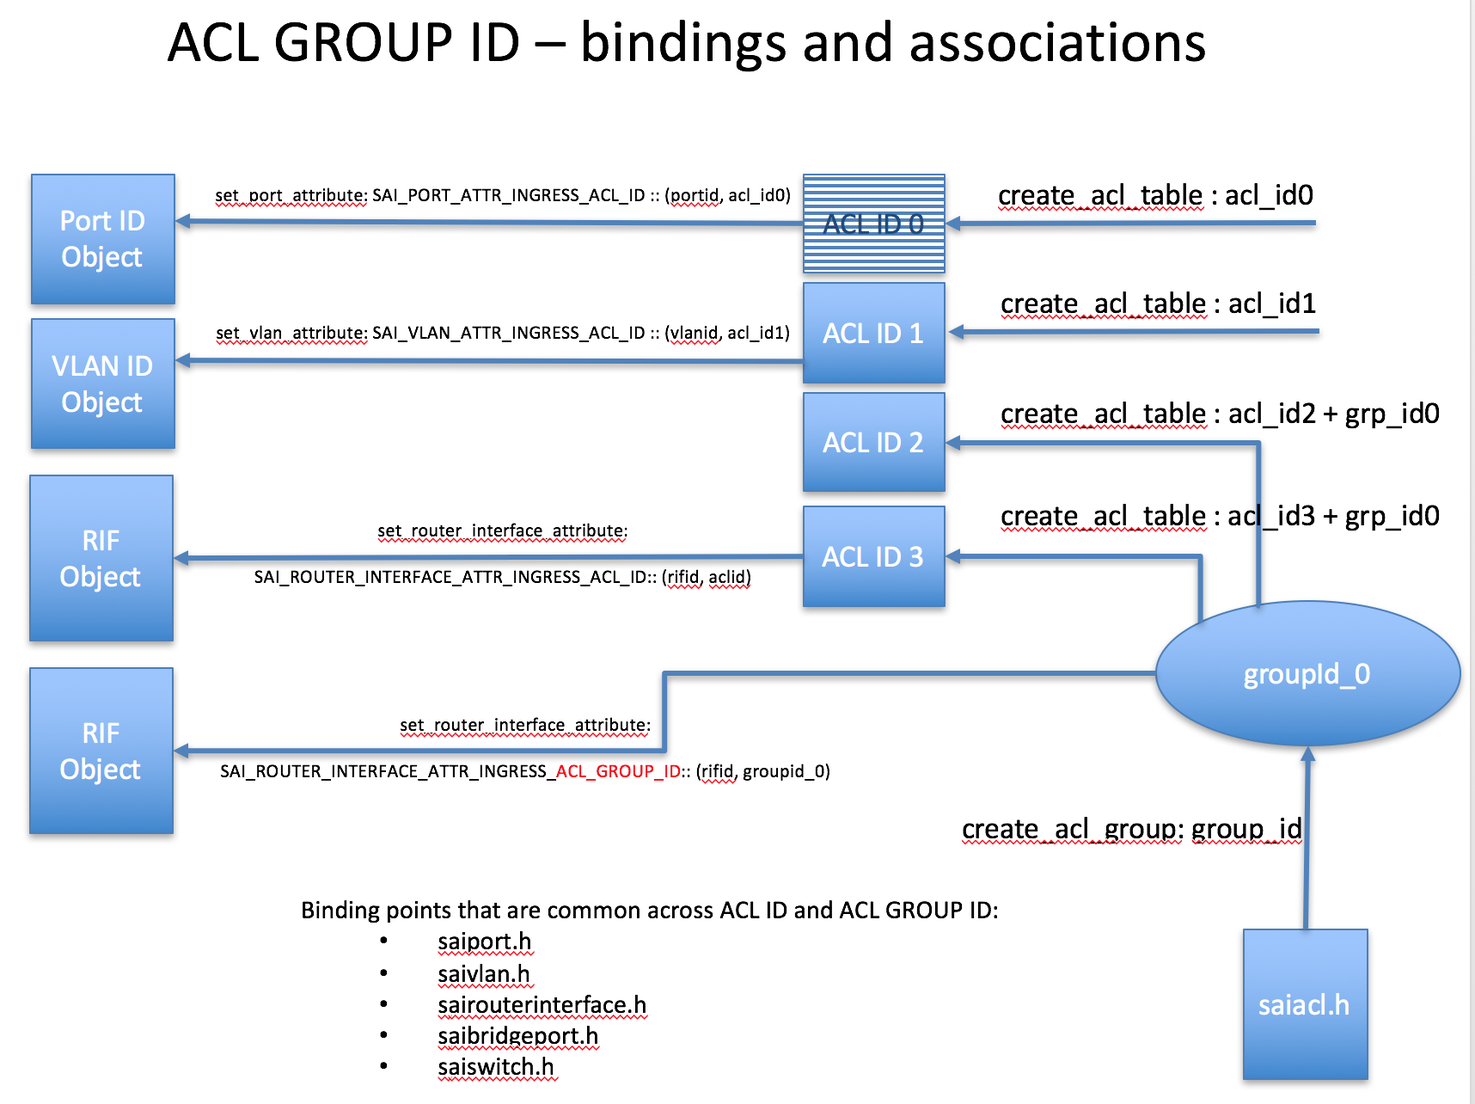
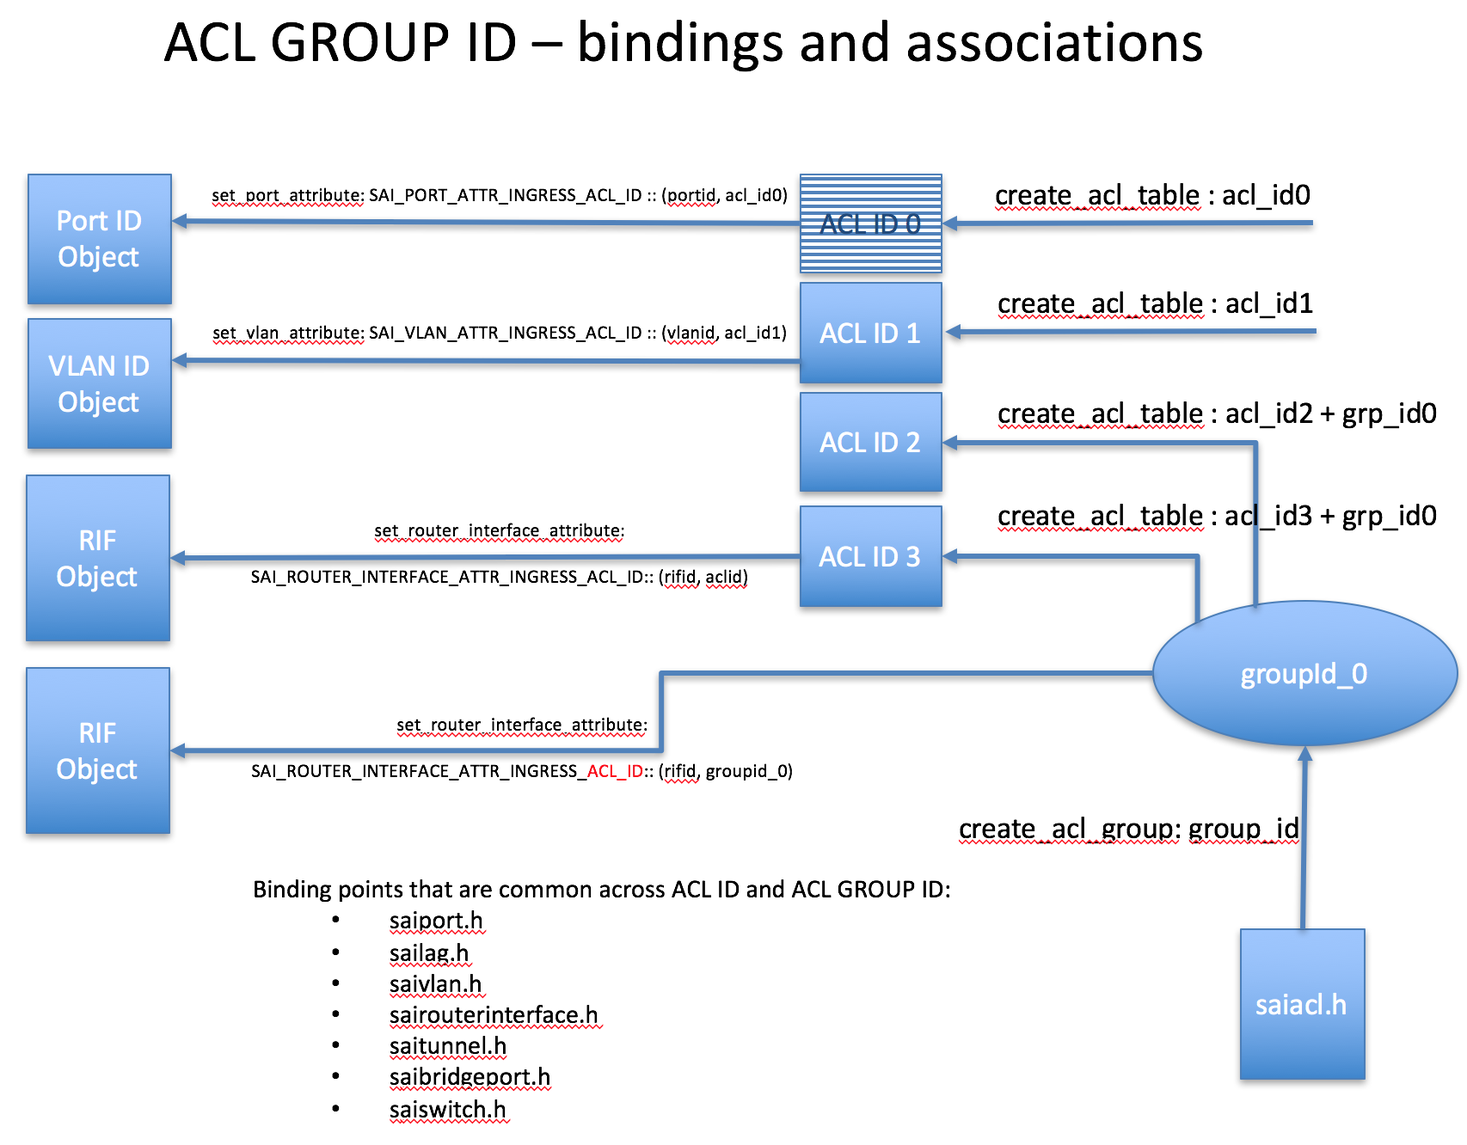
update acl model, with more details

diff --git a/inc/saitunnel.h b/inc/saitunnel.h
@@ -266,9 +266,9 @@ typedef enum _sai_tunnel_attr_t
       * (valid when SAI_TUNNEL_ATTR_ENCAP_ECN_MODE=SAI_TUNNEL_ENCAP_ECN_MODE_USER_DEFINED) */
     SAI_TUNNEL_ATTR_ENCAP_MAPPERS,
 
-    /** Bind/Unbind an egress acl on a tunnel after encap [sai_object_id_t].
+    /** Bind/Unbind an egress acl or acl-group on a tunnel after encap [sai_object_id_t].
      *      Enable (or bind) egress ACL filtering by assigning the ACL table 
-     *      object id as attribute value. 
+     *      object id or ACL group object id as attribute value. 
      *      Disable (or unbind) egress ACL filtering by assigning 
      *      SAI_NULL_OBJECT_ID in the attribute value.
      *      Default Value: SAI_NULL_OBJECT_ID
@@ -297,23 +297,14 @@ typedef enum _sai_tunnel_attr_t
      *  Default would be SAI_TUNNEL_DSCP_UNIFORM_MODEL */
     SAI_TUNNEL_ATTR_DECAP_DSCP_MODE,
 
-    /** Bind/Unbind an ingress acl on a tunnel after decap. [sai_object_id_t].
+    /** Bind/Unbind an ingress acl or acl-group on a tunnel after decap. [sai_object_id_t].
      *      Enable (or bind) ingress ACL filtering by assigning the ACL table 
-     *      object id as attribute value. 
+     *      object id or ACL group object id as attribute value. 
      *      Disable (or unbind) ingress ACL filtering by assigning 
      *      SAI_NULL_OBJECT_ID in the attribute value.
      *      Default Value: SAI_NULL_OBJECT_ID
      */
     SAI_TUNNEL_ATTR_DECAP_INGRESS_ACL_ID,
-
-    /** Bind/Unbind an ingress acl group on a tunnel after decap [sai_object_id_t].
-     *      Enable (or bind) ingress ACL group filtering by assigning 
-     *      the group id as attribute value.
-     *      Disable (or unbind) ingress ACL group filtering by assigning 
-     *      SAI_NULL_OBJECT_ID in the attribute value.
-     *      Default Value: SAI_NULL_OBJECT_ID
-     */
-    SAI_TUNNEL_ATTR_DECAP_INGRESS_ACL_GROUP_ID,
 
     SAI_TUNNEL_ATTR_END,
 

diff --git a/inc/sairouterintf.h b/inc/sairouterintf.h
@@ -93,27 +93,18 @@ typedef enum _sai_router_interface_attr_t
     /** MTU [uint32_t] (CREATE_AND_SET) (default to 1514 bytes) */
     SAI_ROUTER_INTERFACE_ATTR_MTU,
 
-    /** Bind/Unbind an ingress acl on a router interface [sai_object_id_t].
+    /** Bind/Unbind an ingress acl or acl-group on a router interface [sai_object_id_t].
      *      Enable (or bind) ingress ACL filtering by assigning the ACL table 
-     *      object id as attribute value. 
+     *      object id or an ACL group object id as attribute value. 
      *      Disable (or unbind) ingress ACL filtering by assigning 
      *      SAI_NULL_OBJECT_ID in the attribute value.
      *      Default Value: SAI_NULL_OBJECT_ID
      */
     SAI_ROUTER_INTERFACE_ATTR_INGRESS_ACL_ID,
 
-    /** Bind/Unbind an ingress acl group on a router interface [sai_object_id_t].
-     *      Enable (or bind) ingress ACL group filtering by assigning 
-     *      the group id as attribute value.
-     *      Disable (or unbind) ingress ACL group filtering by assigning 
-     *      SAI_NULL_OBJECT_ID in the attribute value.
-     *      Default Value: SAI_NULL_OBJECT_ID
-     */
-    SAI_ROUTER_INTERFACE_ATTR_INGRESS_ACL_GROUP_ID,
-
-    /** Bind/Unbind an egress acl on a router interface [sai_object_id_t].
+    /** Bind/Unbind an egress acl or acl-group on a router interface [sai_object_id_t].
      *      Enable (or bind) egress ACL filtering by assigning the ACL table 
-     *      object id as attribute value. 
+     *      object id or an ACL group object id as attribute value. 
      *      Disable (or unbind) egress ACL filtering by assigning 
      *      SAI_NULL_OBJECT_ID in the attribute value.
      *      Default Value: SAI_NULL_OBJECT_ID

diff --git a/inc/saiport.h b/inc/saiport.h
@@ -412,27 +412,18 @@ typedef enum _sai_port_attr_t
      * [sai_packet_action_t] (default to SAI_PACKET_ACTION_DROP) */
     SAI_PORT_ATTR_FDB_LEARNING_LIMIT_VIOLATION,
 
-    /** Bind/Unbind an ingress acl on a port [sai_object_id_t].
+    /** Bind/Unbind an ingress acl or acl-group on a port [sai_object_id_t].
      *      Enable (or bind) ingress ACL filtering by assigning the ACL table 
-     *      object id as attribute value. 
-     *      Disable (or unbind) ingress ACL filtering by assigning 
+     *      object id or ACL group object id as attribute value. 
+     *      Disable (or unbind) ingress filtering by assigning 
      *      SAI_NULL_OBJECT_ID in the attribute value.
      *      Default Value: SAI_NULL_OBJECT_ID
      */
     SAI_PORT_ATTR_INGRESS_ACL_ID,
 
-    /** Bind/Unbind an ingress acl group on a port [sai_object_id_t].
-     *      Enable (or bind) ingress ACL group filtering by assigning 
-     *      the group id as attribute value.
-     *      Disable (or unbind) ingress ACL group filtering by assigning 
-     *      SAI_NULL_OBJECT_ID in the attribute value.
-     *      Default Value: SAI_NULL_OBJECT_ID
-     */
-    SAI_PORT_ATTR_INGRESS_ACL_GROUP_ID,
-
-    /** Bind/Unbind an egress acl on a port [sai_object_id_t].
+    /** Bind/Unbind an egress acl or acl-group on a port [sai_object_id_t].
      *      Enable (or bind) egress ACL filtering by assigning the ACL table 
-     *      object id as attribute value. 
+     *      object id or ACL group object id as attribute value. 
      *      Disable (or unbind) egress ACL filtering by assigning 
      *      SAI_NULL_OBJECT_ID in the attribute value.
      *      Default Value: SAI_NULL_OBJECT_ID

diff --git a/inc/saiswitch.h b/inc/saiswitch.h
@@ -289,27 +289,18 @@ typedef enum _sai_switch_attr_t
      * Must return SAI_STATUS_OBJECT_IN_USE when try to delete this VR ID. */
     SAI_SWITCH_ATTR_DEFAULT_VIRTUAL_ROUTER_ID,
 
-    /** Bind/Unbind a DEFAULT ingress acl on all flows [sai_object_id_t].
+    /** Bind/Unbind a DEFAULT ingress acl or acl-group on all flows [sai_object_id_t].
      *      Enable (or bind) ingress ACL filtering by assigning the ACL table 
-     *      object id as attribute value. 
+     *      object id or ACL group object id as attribute value. 
      *      Disable (or unbind) ingress ACL filtering by assigning 
      *      SAI_NULL_OBJECT_ID in the attribute value.
      * Default Value: SAI_NULL_OBJECT_ID
      */
     SAI_SWITCH_ATTR_DEFAULT_INGRESS_ACL_ID,
 
-    /** Bind/Unbind a DEFAULT ingress acl on all flows [sai_object_id_t].
-     *      Enable (or bind) ingress ACL group filtering by assigning 
-     *      the group id as attribute value.
-     *      Disable (or unbind) ingress ACL group filtering by assigning 
-     *      SAI_NULL_OBJECT_ID in the attribute value.
-     * Default Value: SAI_NULL_OBJECT_ID
-     */
-    SAI_SWITCH_ATTR_DEFAULT_INGRESS_ACL_GROUP_ID,
-
-    /** Bind/Unbind a DEFAULT egress acl on all flows [sai_object_id_t].
+    /** Bind/Unbind a DEFAULT egress acl or acl-group on all flows [sai_object_id_t].
      *      Enable (or bind) egress ACL filtering by assigning the ACL table 
-     *      object id as attribute value. 
+     *      object id or ACL group object id as attribute value. 
      *      Disable (or unbind) egress ACL filtering by assigning 
      *      SAI_NULL_OBJECT_ID in the attribute value.
      * Default Value: SAI_NULL_OBJECT_ID

diff --git a/inc/saivlan.h b/inc/saivlan.h
@@ -85,27 +85,18 @@ typedef enum _sai_vlan_attr_t
       */
     SAI_VLAN_ATTR_LEARN_DISABLE,
 
-    /** Bind/Unbind an ingress acl on a vlan [sai_object_id_t].
+    /** Bind/Unbind an ingress acl or acl-group on a vlan [sai_object_id_t].
      *      Enable (or bind) ingress ACL filtering by assigning the ACL table 
-     *      object id as attribute value. 
+     *      object id or ACL group object id as attribute value. 
      *      Disable (or unbind) ingress ACL filtering by assigning 
      *      SAI_NULL_OBJECT_ID in the attribute value.
      *      Default Value: SAI_NULL_OBJECT_ID
      */
     SAI_VLAN_ATTR_INGRESS_ACL_ID,
 
-    /** Bind/Unbind an ingress acl group on a vlan [sai_object_id_t].
-     *      Enable (or bind) ingress ACL group filtering by assigning 
-     *      the group id as attribute value.
-     *      Disable (or unbind) ingress ACL group filtering by assigning 
-     *      SAI_NULL_OBJECT_ID in the attribute value.
-     *      Default Value: SAI_NULL_OBJECT_ID
-     */
-    SAI_VLAN_ATTR_INGRESS_ACL_GROUP_ID,
-
-    /** Bind/Unbind an egress acl on a vlan [sai_object_id_t].
+    /** Bind/Unbind an egress acl or acl-group on a vlan [sai_object_id_t].
      *      Enable (or bind) egress ACL filtering by assigning the ACL table 
-     *      object id as attribute value. 
+     *      object id or ACL group object id as attribute value. 
      *      Disable (or unbind) egress ACL filtering by assigning 
      *      SAI_NULL_OBJECT_ID in the attribute value.
      *      Default Value: SAI_NULL_OBJECT_ID

diff --git a/inc/sailag.h b/inc/sailag.h
@@ -42,27 +42,18 @@ typedef enum _sai_lag_attr_t {
 
     /** READ_WRITE */
 
-    /** Bind/Unbind an ingress acl on a lag [sai_object_id_t].
+    /** Bind/Unbind an ingress acl or acl-group on a lag [sai_object_id_t].
      *      Enable (or bind) ingress ACL filtering by assigning the ACL table 
-     *      object id as attribute value. 
+     *      object id or ACL group object id as attribute value. 
      *      Disable (or unbind) ingress ACL filtering by assigning 
      *      SAI_NULL_OBJECT_ID in the attribute value.
      *      Default Value: SAI_NULL_OBJECT_ID
      */
     SAI_LAG_ATTR_INGRESS_ACL_ID,
 
-    /** Bind/Unbind an ingress acl group on a lag [sai_object_id_t].
-     *      Enable (or bind) ingress ACL group filtering by assigning 
-     *      the group id as attribute value.
-     *      Disable (or unbind) ingress ACL group filtering by assigning 
-     *      SAI_NULL_OBJECT_ID in the attribute value.
-     *      Default Value: SAI_NULL_OBJECT_ID
-     */
-    SAI_LAG_ATTR_INGRESS_ACL_GROUP_ID,
-
-    /** Bind/Unbind an egress acl on a lag [sai_object_id_t].
+    /** Bind/Unbind an egress acl or acl-group on a lag [sai_object_id_t].
      *      Enable (or bind) egress ACL filtering by assigning the ACL table 
-     *      object id as attribute value. 
+     *      object id or ACL group object id as attribute value. 
      *      Disable (or unbind) egress ACL filtering by assigning 
      *      SAI_NULL_OBJECT_ID in the attribute value.
      *      Default Value: SAI_NULL_OBJECT_ID

diff --git a/inc/saiacl.h b/inc/saiacl.h
@@ -1154,7 +1154,8 @@ typedef struct _sai_acl_api_t
     sai_remove_acl_range_fn             remove_acl_range;
     sai_set_acl_range_attribute_fn      set_acl_range_attribute;
     sai_get_acl_range_attribute_fn      get_acl_range_attribute;
-
+    sai_create_acl_group_fn             create_acl_group;
+    sai_remove_acl_group_fn             remove_acl_group;
 } sai_acl_api_t;
 
 /**

diff --git a/doc/SAI-Proposal-ACL-1.md b/doc/SAI-Proposal-ACL-1.md
@@ -1,9 +1,9 @@
 SAI access control lists (ACL) enhancements for SAI 1.0 release
-===============================================================================
+-------------------------------------------------------------------------------
 
  Title       | SAI ACL Model - Enhancements
 -------------|----------------------
- Authors     | Cavium 
+ Authors     | Cavium Inc.
  Status      | In review
  Type        | Standards track
  Created     | 08/09/2016
@@ -12,35 +12,42 @@ SAI access control lists (ACL) enhancements for SAI 1.0 release
 -------------------------------------------------------------------------------
 
 ## Overview ##
-SAI Access Control Lists (ACL) object implements ACL management functions. In SAI 0.9.1 through 0.9.3 versions, the ACL contains three types of objects, ACL table, ACL entry and ACL counter. The ACL table contains a number of ACL entries. Each ACL table defines a set of unique matching fields for all its ACL entries. A packet can match rules in different ACL tables and take non-conflicting actions from all the matched rules. However, within an ACL table, if a packet matches multiple rules, only the actions from the rule of highest priority are executed. ACL counters can also be created and attached to an ACL entry in order to counter the number of packets or bytes that match the ACL entry.
+SAI Access Control Lists (ACL) object implements ACL management functions. In SAI 0.9.1 through 0.9.5 versions, SAI ACL contained three types of objects, ACL table, ACL entry and ACL counter. The ACL table contains a number of ACL entries. Each ACL table defines a set of unique matching fields for all its ACL entries. A packet can match rules in different ACL tables and take non-conflicting actions from all the matched rules. However, within an ACL table, if a packet matches multiple rules, only the actions from the rule of highest priority are executed. ACL counters can also be created and attached to an ACL entry in order to counter the number of packets or bytes that match the ACL entry. The initial version of ACL table object has several ambiguities and limitations. We propose the following enhancements to address some of those and propose a generic and simple ACL model for operators:
 
-The initial version of ACL table object has several ambiguities and limitations, as well as needs the following enhancements. 
 1. Well defined binding point for an ACL table
 2. Well defined behavior and usage of ACL group ID and metadata fields
 3. ACL table stages that were relevant in absense of a binding point
 4. Scaling issues in absense of a well defined binding point
 5. Missing behavioral model for ACL stage(s)
 
-In this proposal, we propose a model for binding an ACL table, clarify the usage of group IDs and metadata with UOID based ACL ID, mapping of ACL stages relevant to binding points, and tunnel specific ACL behavior. We also introduce the behavioral model for ACLs.
+In this proposal, we provide a model for binding an ACL table, clarify the usage of group IDs and metadata with UOID based ACL Table ID, mapping of ACL stages relevant to binding points, and tunnel specific ACL behavior. We also introduce the behavioral model for ACLs.
 
-![SAI acl design](figures/sai_aclobjs.png "Figure 1: ACL ID's relationship and binding points with other SAI objects.")
-__Figure 1: ACL ID's relationship and binding points with other SAI objects__
+### Binding Points
+In SAI all physical and logical interfaces are represented by a UOID (for eg. ports  - saiport.h, LAGs - sailag.h, RIFs - sairouterintf.h, tunnels, bridge ports, etc). These are well defined objects in SAI that allows a packet or a flow to ingress or egress through a switch. The ability to filter, classify, or apply specific rules to the traffic that ingresses or egresses through these objects/interfaces allows applications and operators to focus on the functionality of what they want to achieve, and avoid looking at the internals of the switch asic. 
 
-### ACL ID Binding Model 
-We propose the usage of UOID based ACL Table ID allocated by the create_acl_table function should be uniformly applied to identify the binding point. This bind point is typically identified by various physical and or logical interfaces identified by various objects: 
+The physical and logical interfaces represented by UOIDs, should be well defined and serves as clear binding points to apply ACL tables rules. 
+
+### ACL TABLE ID Bind/Unbind Model 
+We propose the usage of UOID based ACL Table ID allocated by the create_acl_table function should be uniformly applied to identify the binding point. This bind/unbind point is typically identified by various physical and or logical interfaces identified by various objects: 
 1. Physical Ports and Lag (saiport.h and sailag.h)
 2. VLANs (saivlan.h)
 3. Router Interfaces (sairouterintf.h)
 4. Bridge Ports (saibridgeintf.h) - includes both .1q and .1d bridge ports
 5. Globally apply to all packets (saiswitch.h). Currently the limitation is to be able to bind only one ACL ID per switch. This is to support backward compatibility to pre- SAI 1.0 ACL model.
 
-Considering there are various ACL IDs derived from several binding points, there are use cases where more than one valid ACL ID can be associated for a particular flow. The behavioral expectation is to apply all the valid ACL IDs derived from different binding points, but apply the ACLs tables the order of the ACL Table's priority. 
+Considering there are various ACL IDs derived from several binding points, there are use cases where more than one valid ACL ID can be associated for a particular flow. The behavioral expectation is to apply all the valid ACL IDs derived from different binding points, but apply the ACL tables in the order of their priority.
+
+![SAI acl design](figures/sai_aclobjs.png "Figure 1: Relationship between ACL Table ID and various binding points.")
+__Figure 1: Relationship between ACL Table ID and various binding points.__
 
 ### Group ID Binding Model
-Group ID is an object ID based identifier that is a software only object allocated via saiacl.h APIs. The purpose of the group ID object is to bind several ACL table IDs logically, and then allow the group ID to be bound to a specific binding point. This proposal introduces the group ID management APIs to saiacl.h. Figure 2 conceptually shows the use case of allowing group IDs be configured to various binding points. This also introduces the group ID configuration attribute at various binding points. Naturally group ID attribute once configured should superseed the acl ID configured on any binding point. 
+Group ID is an object ID based identifier that is a typically a software only object allocated via saiacl.h apis "create_acl_group". The purpose of the group object is to group several ACL tables logically, and then allow the group ID to be bound to a specific binding point. This proposal introduces the group ID management APIs to saiacl.h. Figure 2 conceptually shows the use case of allowing group IDs be configured to various binding points. This also introduces the group ID configuration attribute at various binding points. Naturally group ID attribute once configured should superseed the acl ID configured on any binding point. 
 
 ![SAI acl group](figures/sai_aclgroups.png "Figure 2: Group ID and ACL ID's relation with several binding points. ")
 __Figure 2: Group ID and ACL ID's relation with several binding points.__
+
+### Group ID Management
+Two new APIs are introduced in saiacl.h object to manage group ID creation and removal. create_acl_group API allocates a UOID based group id and remove_acl_group API removes/frees the UOID for recycle.
 
 ### Metadata Usage Model
 Metadata is a completely user defined field or an identifier that does not need to be allocated within the SAI implementtaions. The Metadata field(s) in the logical pipeline is to allow users to derive a *Metadata* field from any SAI objects (ports, vlans, rifs, bridge ports, Etc.), as well as flow tables (like unicast/multicast FDBs, Neighbor table, acl table entries, route entries). Currently the Metadata field derived at various stages of the pipeline are appended to each other and a specific META_DATA is being used for lookup in the ACL entry. 
@@ -54,14 +61,29 @@ Tunnel interfaces are defined by saitunnel.h. The following tunnel attributes ca
 ### ACL Stages 
 Based on various binding points, the scope of the ACL stages are restricted to primarily INGRESS and EGRESS. The ingress stage of the ACL table gets applied to various flows right after the determinition of the type of interface. For a bridge flow after the port or the bridge port determination, for the router flow right after the rif determination, and for a tunnelled flow it is after the tunnel decap and tunnel determination stage. Please refer to the ACL changes to the behavioral pipeline model for various ACL stages.
 
+## FAQs 
+1. Clarify the usage of binding point acl_id with the acl_table_id that is allocated from the saiacl.h object?
+    - On creating an ACL table via create_acl_table API generates a UOID for a unique ACL table (or unique ACL group table using create_acl_group api). This UOID is used to bind this ACL table or the ACL Group to a binding point(s) that are idnetified by their UOIDs representing ports, vlans, lags, rifs, bridge-ifs, etc. The ACL table or the ACL group will be a hit if the object type its bound to is hit  ,and the ACL UOID is derived from the binding point (ports, vlan, rif, lag, etc..). 
+    - The purpose of having bind points is to allow duplication of rules in the ACL table when ports, vlans, rifs, lags, are MATCH KEYs in the ACL entry. However, this proposal does not restrict any of those less efficient behaviors, provided underlying switch ASIC has to use them.
+2. ACL table ids and group-ids are not one of the key fields in the ACL table entries, but they only point to the table(s) to be used? 
+    - Yes. Binding point UOIDs (ports, vlans, etc..) are not match keys in the ACL table which gets bound. Binding points (port, lag, vlans, etc.. UOIDs) are configured/bound by an acl_table_id , so they derive an “acl_table_id” which is the table being used to filter all the traffic.
+3. Multiple bind points will come in picture as, say a packet in Rx on port a (bind point table id is x), and the incoming vlan is b (bind point is table id y) and finally the port a, Vlan b is rif c (bind point is table id z). So now this packet will give me 3 bind points and that means it will look-up table x, y and z and how does the packet gets processed ? 
+    - Multiple bind points is a valid scenario, where the table priority should take precedence since there are multiple tables being looked up. In case of several tables having the same priority in that case the table created earlier should have higher priority in terms of resolution. This is simply to make the model and usage behavior deterministic and avoid implementation specific differences.
+4. Now for a port a’ suppose one wants to hit table id’s x’, y’ and z’ then a group G needs to be formed between x’, y’ and z', and use G as group ID. Can we clarify this behavior?
+    - Yes. For tables x’, y’ and z’ -> use group id G. That is associated or bound to port a’. IN that case flows hitting port a' will derive group ID G, and lookup ACL tables x', y', and z' in the prioritized order. The idea is to use the ACL table as a normal ACL table, but allow one level of grouping between ACLs. Again, this is grouping between ACL tables and not ACL entries. To group ACL entries metadata should be used.
+5. Meta data is one of the key fields so it will not interfere with the ACL ids/Group ids. The match/resolution are not conflicting between ACL/Group-id and meta-data. Meta data will interfere with the bind-point index, because if one uses meta data from the interface tables, he would want to match all the entries with the same meta data. Meta from flow entries is still ok. Because same port traffic will hit multiple of them.
+    - Metadata is designed to provide more granularity within the ACL Entry rules to be matched. Metadata might interfere with the bind-point, but the idea is to use group_id there and not metadata. Metadata is used to have more granularities within the ACL table entry rules, ie. grouping ACL entry rules as opposed to grouping ACL tables. Especially metadata can be derived from flow entries. 
+6. We have port, vlan, rif in the egress and ingress both. While using for the binding point, how we get the direction.
+    - When an ACL table is created the direction is specified, so UOID carries the ING or EGR direction of any ACL table. When an ingress ACL UOID is bound to a binding point, there is already a direction known, same for the egress. 
+
 ## Example ##
-TBD: Examples show how to define ACLs, Group IDs, Metadata, Etc.
-TBD: Update pipeline models after incorporating all review feedbacks.
+1. TBD: Examples show how to define ACLs, Group IDs, Metadata, Etc.
+2. TBD: Update pipeline model after review and incorporate feedbacks. 
 
 ## References ##
 1. SAI v0.9.1 specification.
 
 ## Next Steps
-1. Community Review 
+1. Community Review - 09/01/16
 2. Update examples
 3. Update pipeline models
